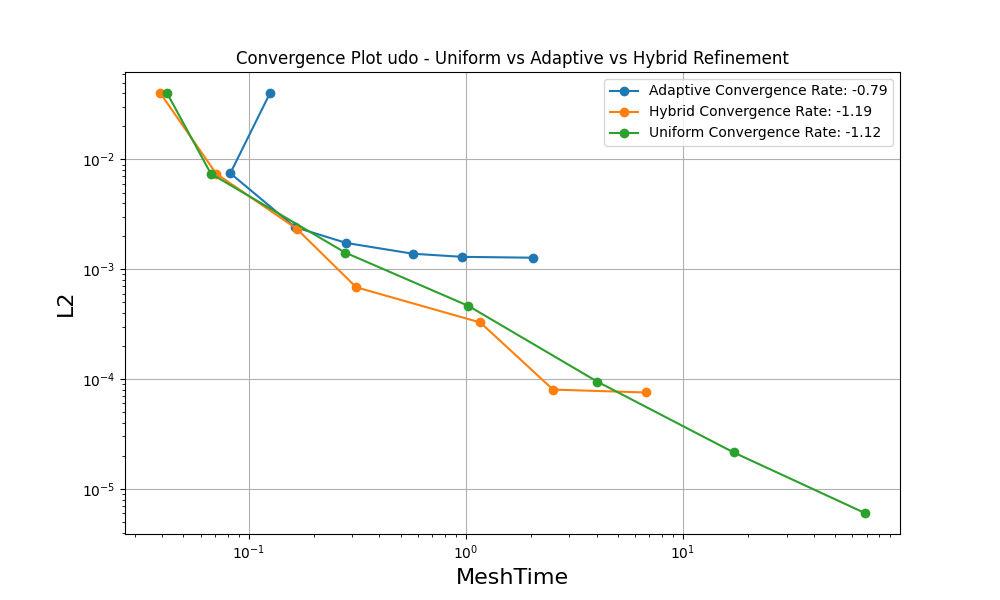
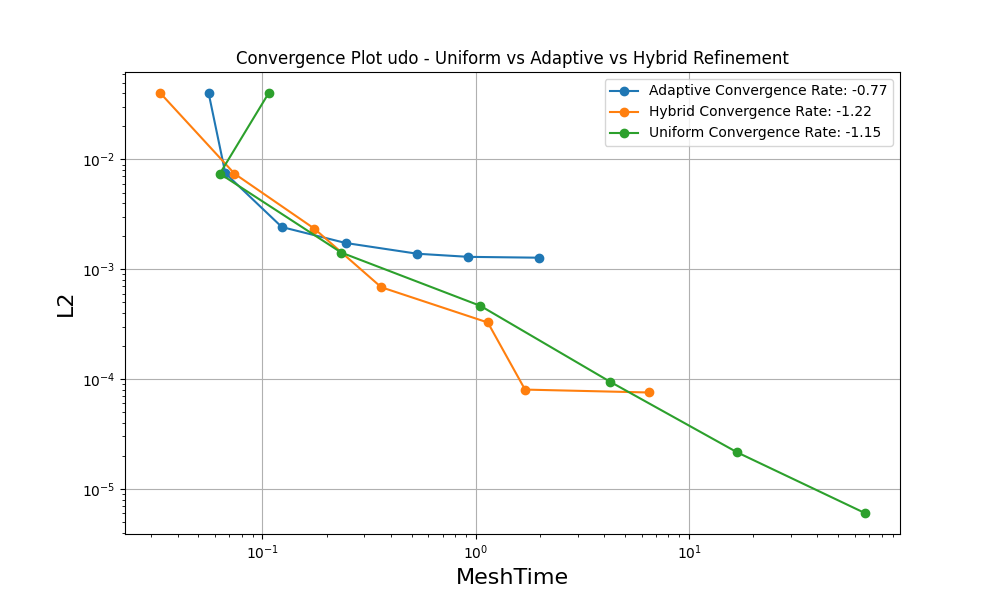
added metric adaptation to convergence results

diff --git a/NumericalResults/ConvergenceResults/Convergence.py b/NumericalResults/ConvergenceResults/Convergence.py
@@ -10,6 +10,9 @@ import pandas as pd
 import os
 
 
+vcesHybridVertexCounts = [413,623,2417,3221,12737,15837, 113]
+vcesAdaptVertexCounts = [194,436,842,1644,3216,6302, 113]
+
 if __name__ == "__main__":
     parser = argparse.ArgumentParser(
         description="Run convergence script with specified parameters.")
@@ -82,30 +85,39 @@ if __name__ == "__main__":
         h = max(mesh.cell_sizes.dat.data)
         CG1, DG0 = amr_instance.spaces(mesh)
         if args.refinement == "Hybrid":
-            print(f"Running {args.refinement} scheme:{i}")
-            ratio = HError/(h**2)
-            switch = math.isclose(ratio, 1, rel_tol=.1)
-
-            if HError < h**2 or switch:
-                print("Uniform")
+            
+            if args.amrMethod == "metric":
                 mtic = time.perf_counter()
-                mark = Function(DG0).interpolate(Constant(1.0))
-                nextmesh = mesh.refine_marked_elements(mark)
+                amr_instance.setmetricparameters(target_complexity=vcesHybridVertexCounts[i])
+                nextmesh = amr_instance.metricrefine(mesh, u, lb, weights = [.5, .5]) # Corresponds to equal averaging of freeboundary and hessian based metrics. 
                 mtoc = time.perf_counter()
-                mesh = nextmesh
-
-
+                
+            
             else:
-                print("Adaptive")
-                mtic = time.perf_counter()
-                if args.amrMethod == "udo":
-                    mark = amr_instance.udomarkParallel(mesh, u, lb, n=3)
-                elif args.amrMethod == "vces":
-                    mark = amr_instance.vcesmark(mesh, u, lb, bracket=[.2, .8])
+                print(f"Running {args.refinement} scheme:{i}")
+                ratio = HError/(h**2)
+                switch = math.isclose(ratio, 1, rel_tol=.1)
 
-                nextmesh = mesh.refine_marked_elements(mark)
-                mtoc = time.perf_counter()
-                mesh = nextmesh
+                if HError < h**2 or switch:
+                    print("Uniform")
+                    mtic = time.perf_counter()
+                    mark = Function(DG0).interpolate(Constant(1.0))
+                    nextmesh = mesh.refine_marked_elements(mark)
+                    mtoc = time.perf_counter()
+                    mesh = nextmesh
+
+
+                else:
+                    print("Adaptive")
+                    mtic = time.perf_counter()
+                    if args.amrMethod == "udo":
+                        mark = amr_instance.udomarkParallel(mesh, u, lb, n=3)
+                    elif args.amrMethod == "vces":
+                        mark = amr_instance.vcesmark(mesh, u, lb, bracket=[.2, .8])
+
+                    nextmesh = mesh.refine_marked_elements(mark)
+                    mtoc = time.perf_counter()
+                    mesh = nextmesh
 
 
         elif args.refinement == "Uniform":
@@ -122,10 +134,19 @@ if __name__ == "__main__":
             mtic = time.perf_counter()
             if args.amrMethod == "udo":
                 mark = amr_instance.udomarkParallel(mesh, u, lb, n=3)
+                nextmesh = mesh.refine_marked_elements(mark)
+
             elif args.amrMethod == "vces":
                 mark = amr_instance.vcesmark(mesh, u, lb, bracket=[.2, .8])
-
-            nextmesh = mesh.refine_marked_elements(mark)
+                nextmesh = mesh.refine_marked_elements(mark)
+                
+            elif args.amrMethod == "metric":
+                amr_instance.setmetricparameters(target_complexity = vcesAdaptVertexCounts[i])
+                nextmesh = amr_instance.metricrefine(mesh, u, lb, weights = [0, 1]) # Corresponds to only freeboundary metric applied
+                
+                
+                
+                
             mtoc = time.perf_counter()
             mesh = nextmesh
 

diff --git a/examples/DWRinactive.py b/examples/DWRinactive.py
@@ -1,0 +1,96 @@
+from firedrake import *
+from firedrake.output import VTKFile
+from viamr import VIAMR
+from viamr.utility import LShapedDomainProblem
+levels = 6
+outfile = "result_LShaped.pvd"
+
+
+
+# Solve Obstacle Problem over domain,
+# Mesh filtering functionality in dmplextransform to setup inactive dirichlet problem? Looks like matt is working on porting to firedrake
+# Compute error estimate
+# Union FB and DWR marks
+
+
+def estimate_error(mesh, uh):
+    W = FunctionSpace(mesh, "DG", 0)
+    eta_sq = Function(W)
+    w = TestFunction(W)
+    f = Constant(0.0)
+    h = CellDiameter(mesh)  # symbols for mesh quantities
+    n = FacetNormal(mesh)
+    v = CellVolume(mesh)
+
+    # Babuska-Rheinboldt error estimator
+    # Experiment with the semismooth residual for VI problems to replace the non-jump term. 
+    
+    G = (  # compute cellwise error estimator
+        inner(eta_sq / v, w)*dx
+        - inner(h**2 * (f + div(grad(uh)))**2, w) * dx
+        - inner(h('+')/2 * jump(grad(uh), n)**2, w('+')) * dS
+        - inner(h('-')/2 * jump(grad(uh), n)**2, w('-')) * dS
+    )
+
+    # Each cell is an independent 1x1 solve, so Jacobi is exact
+    sp = {"mat_type": "matfree", "ksp_type": "richardson", "pc_type": "jacobi"}
+    solve(G == 0, eta_sq, solver_parameters=sp)
+    eta = Function(W).interpolate(sqrt(eta_sq))  # compute eta from eta^2
+
+    with eta.dat.vec_ro as eta_:  # compute estimate for error in energy norm
+        error_est = sqrt(eta_.dot(eta_))
+    return (eta, error_est)
+
+
+
+
+
+
+
+
+if __name__ == "__main__":
+    problem = LShapedDomainProblem(TriHeight=.25)
+    amr = VIAMR()
+    mesh = problem.setInitialMesh()
+    meshHist = [mesh]
+    u = None
+    for i in range(levels + 1):
+        mesh = meshHist[i]
+        print(f'solving on mesh {i} ...')
+        amr.meshreport(mesh)
+        spmore = {
+            "snes_converged_reason": None,
+            "snes_vi_monitor": None,
+        }
+        u, lb = problem.solveProblem(mesh=mesh, u=u, moreparams=spmore)
+        if i == levels:
+            break
+        
+        # Generate Inactive DWR mark
+        (eta, error_est) = estimate_error(mesh, u)
+        CG1, DG0 = amr.spaces(mesh)
+        elemactiveindicator = amr.elemactive(u, lb)
+        eleminactiveindicator = Function(DG0).interpolate(conditional(elemactiveindicator>0.5, 0, 1))
+        etaInactive = Function(DG0).interpolate(eta * eleminactiveindicator)
+        etaInactive.rename("etaInactive")
+        markDWR = Function(DG0)
+        with etaInactive.dat.vec_ro as eta_:
+            eta_max = eta_.max()[1]
+
+        theta = 0.5
+        should_refine = conditional(gt(etaInactive, theta*eta_max), 1, 0)
+        markDWR.interpolate(should_refine)
+        
+        # Generate Free Boundary mark
+        markFB = amr.vcesmark(mesh, u, lb, bracket=[.4, .6])
+        
+        # Union and Refine
+        markUnion = Function(DG0).interpolate((markDWR + markFB) - (markDWR*markFB))
+        mesh = mesh.refine_marked_elements(markUnion)
+        meshHist.append(mesh)
+
+    V = u.function_space()
+    gap = Function(V, name="gap = u-lb").interpolate(u - lb)
+
+
+    VTKFile(outfile).write(u, lb, gap)

diff --git a/paper/viamr.tex b/paper/viamr.tex
@@ -19,13 +19,14 @@
 \pgfplotsset{compat=1.16}
 \usepackage{caption}
 \usepackage{subcaption}
-\usepackage{minted}
+%\usepackage{minted}
 
 \usepackage[hidelinks]{hyperref}
 
 \theoremstyle{plain}% Theorem-like structures provided by amsthm.sty
 \newtheorem{theorem}{Theorem}[section]
 \newtheorem{lemma}[theorem]{Lemma}
+
 \newtheorem{corollary}[theorem]{Corollary}
 \newtheorem{proposition}[theorem]{Proposition}
 
@@ -533,7 +534,7 @@ As show in Algorithim 3, for a border element set $B$, defined below in (5.5) we
 
 A simple example using UDO is shown.
 
-\inputminted{python}{short.py}
+%\inputminted{python}{short.py}
 
 Using thresholding $u - \psi < 0.001$ to determine the active set, running this example generates the following Figure.
 

diff --git a/examples/pollutantAMR.py b/examples/pollutantAMR.py
@@ -10,10 +10,10 @@ from netgen.occ import *
 # This issue about refinement along the surface will be fixed in the next firedrake release. Install the latest ngsPETSc changes for now. 
 
 amr = VIAMR()
-refinement = 2
+refinement = 4
 # set up mesh
 box = Box((-1, -1, -1), (1, 1, 1))
-ngmesh = OCCGeometry(box, dim=3).GenerateMesh(maxh=.1)
+ngmesh = OCCGeometry(box, dim=3).GenerateMesh(maxh=.2)
 mesh = Mesh(ngmesh, distribution_parameters={
             "partition": True, "overlap_type": (DistributedMeshOverlapType.VERTEX, 1)})
 

diff --git a/NumericalResults/ConvergenceResults/GeneratePlots.py b/NumericalResults/ConvergenceResults/GeneratePlots.py
@@ -128,7 +128,7 @@ if __name__ == "__main__":
     if args.runconvergence:
         # adjust flags for running convergence script, small modification for metric based adaptation
         # amr_methods = ["udo", "vces", "metric"] <- will need to adjust if statements in Convergence.py
-        amr_methods = ["udo", "vces"]
+        amr_methods = ["udo", "vces", "metric"]
         refinements = ["Uniform", "Hybrid", "Adaptive"]
 
         script_path = "Convergence.py"
